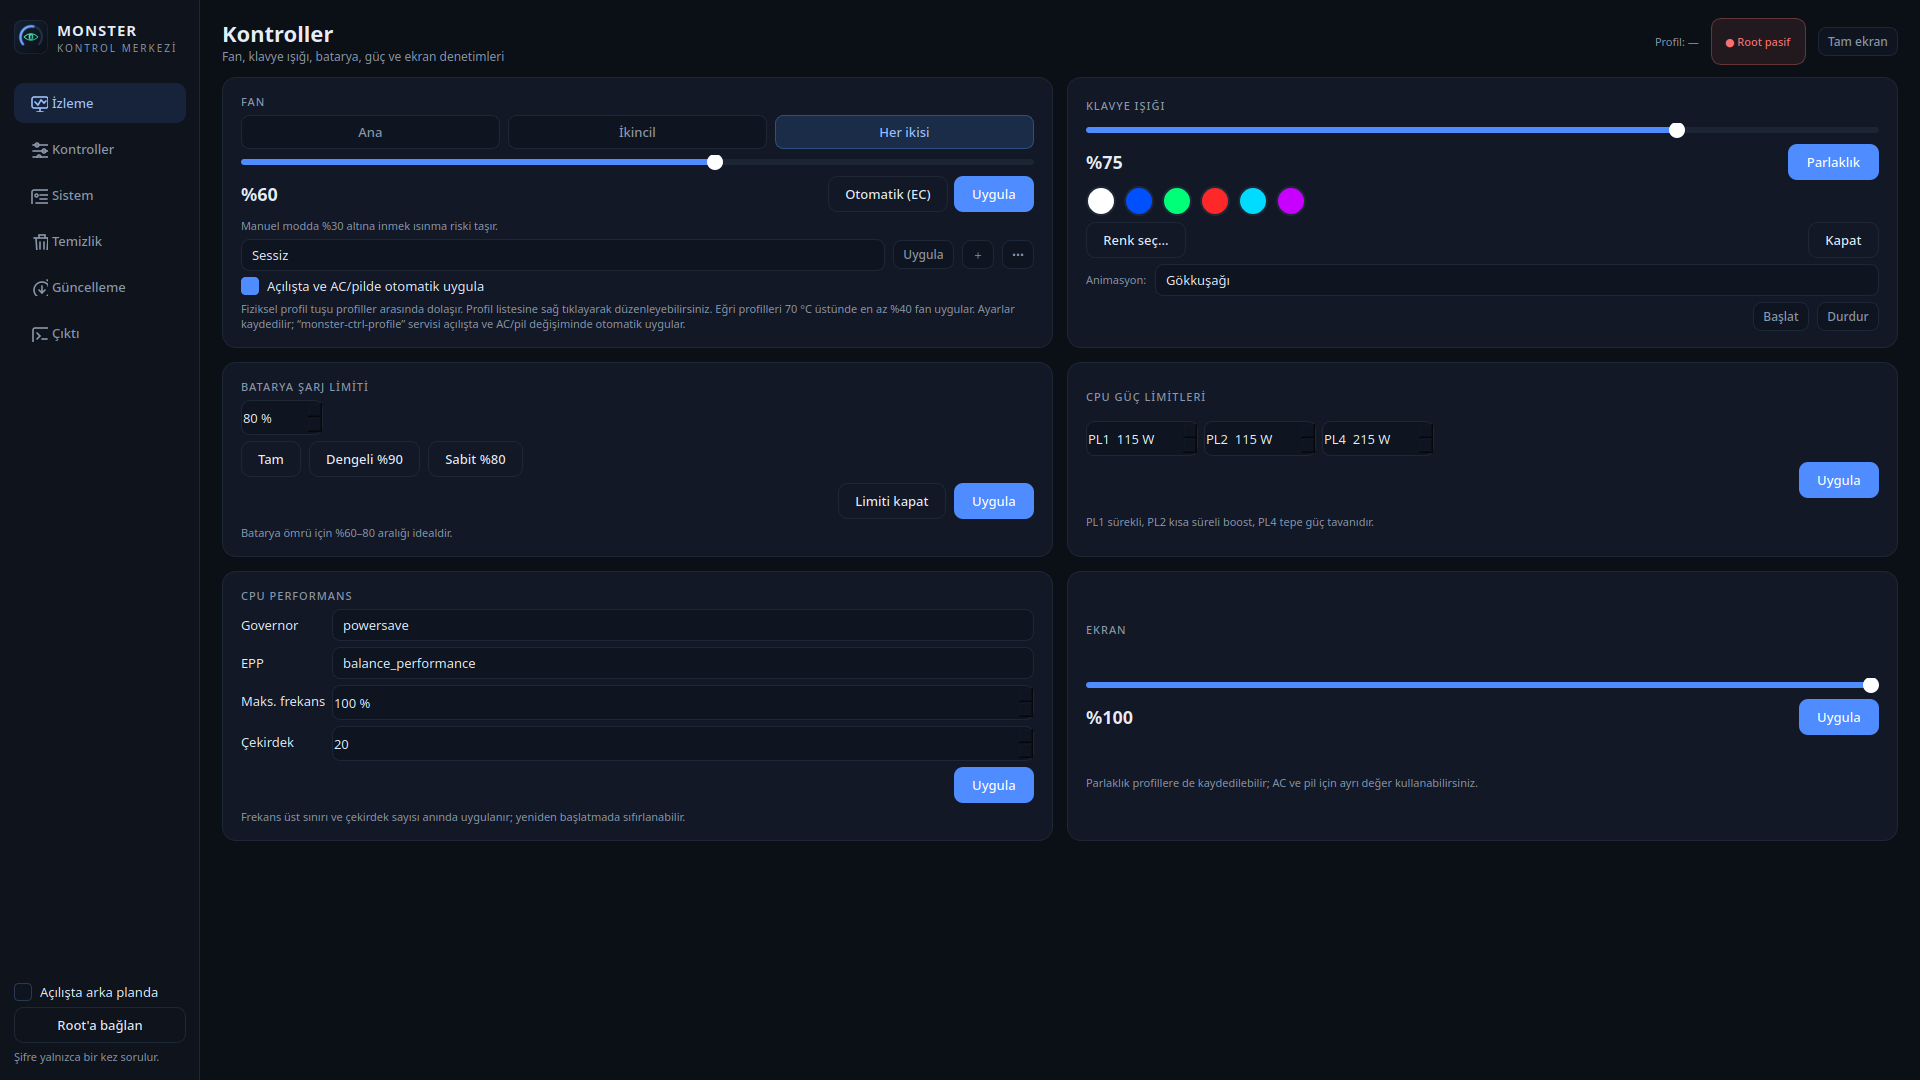
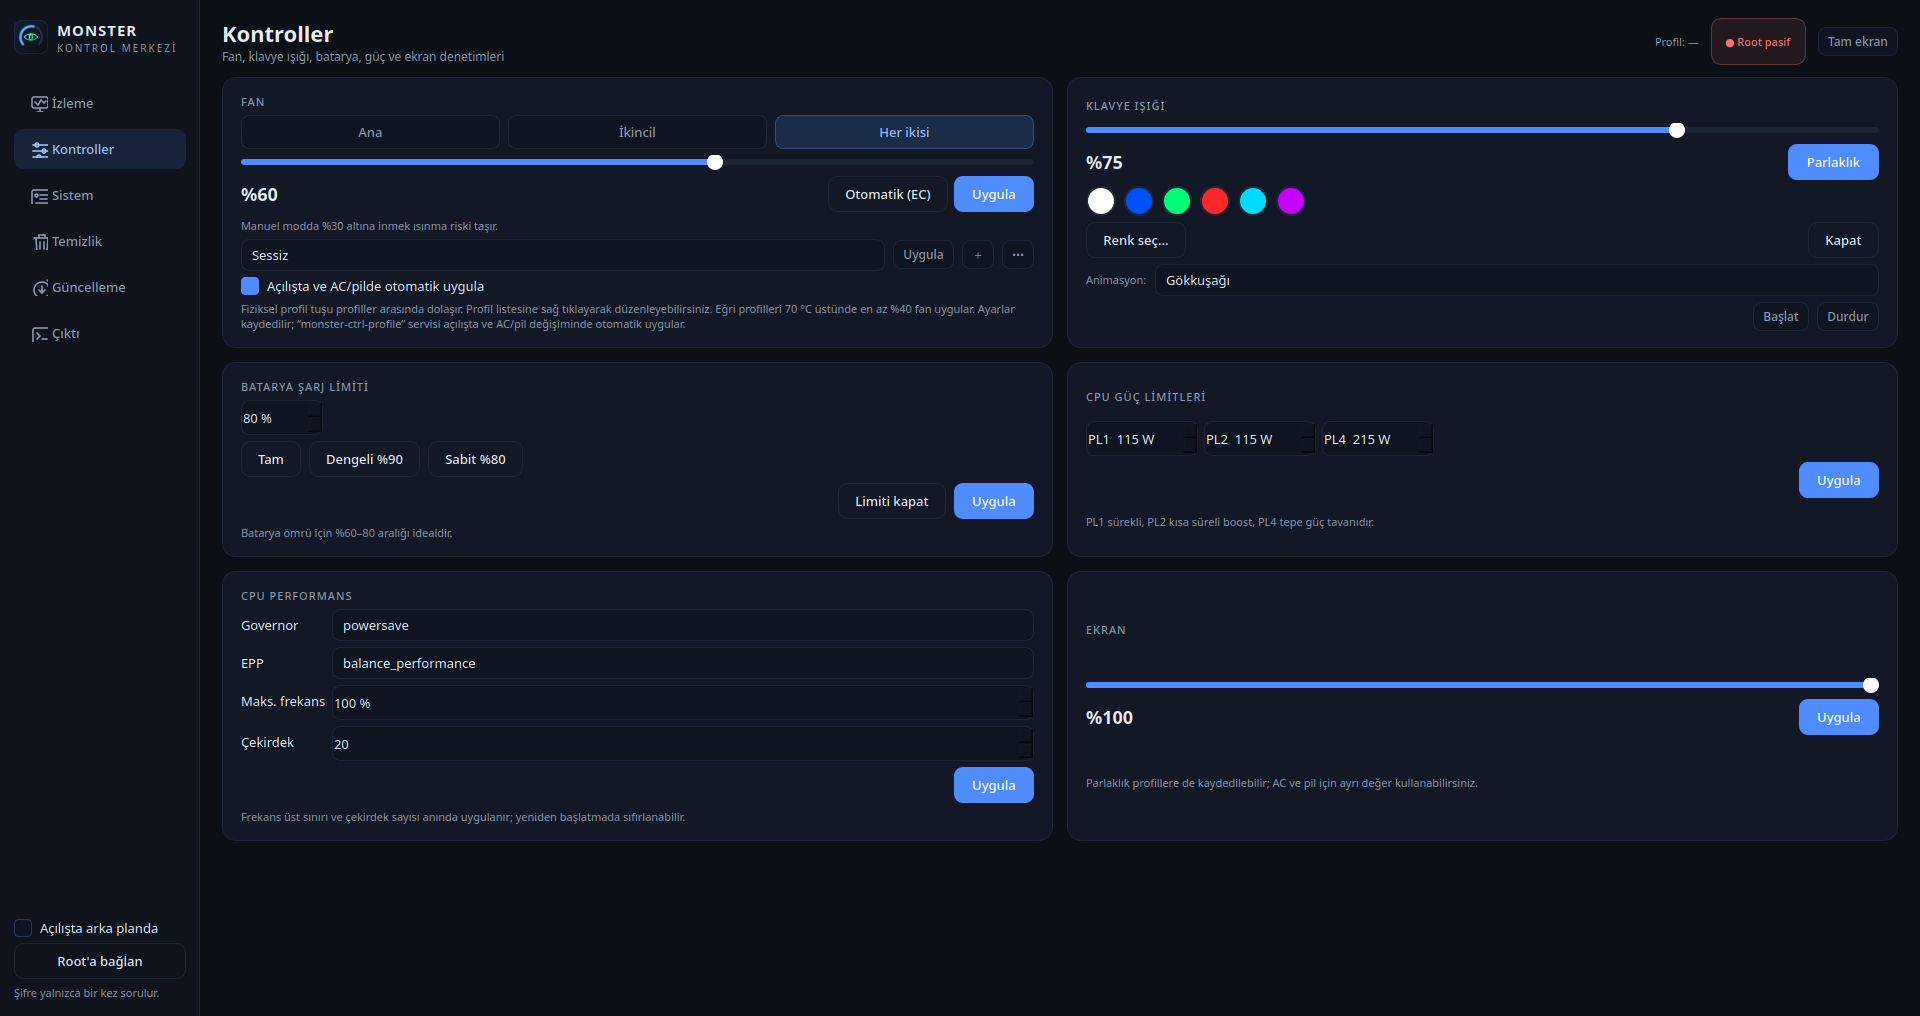
OpenMonster 1.1.1: fan modüllerini servis üzerinden yükle

diff --git a/gui/monstergui.py b/gui/monstergui.py
@@ -1,5 +1,5 @@
 #!/usr/bin/env python3
-# OpenMonster GUI v1.1.0 (PyQt6): modern koyu tema + ring gostergeli panel
+# OpenMonster GUI v1.1.1 (PyQt6): modern koyu tema + ring gostergeli panel
 # - Acilista BIR KEZ pkexec sifre penceresi; sonraki komutlar sifresiz (monsterctl helper)
 # - Root islemleri proje icindeki guncel binary ile yapilir.
 # - Sistem tepsisi: arka planda temizlik / fan / RGB hizli islemleri.
@@ -49,7 +49,7 @@ except ImportError:
 
 APP_NAME = "OpenMonster"
 APP_ID = "openmonster"
-APP_VERSION = "1.1.0"
+APP_VERSION = "1.1.1"
 GITHUB_REPO = "talhayksk/openmonster"
 RELEASES_API = f"https://api.github.com/repos/{GITHUB_REPO}/releases/latest"
 RELEASES_PAGE = f"https://github.com/{GITHUB_REPO}/releases"
@@ -2146,6 +2146,11 @@ class Main(QMainWindow):
         if idx != 2:
             self._webcam_stop_preview()
         self.stack.setCurrentIndex(idx)
+        # Programatik gezinmede de menü seçimini senkron tut.
+        if hasattr(self, "nav_group"):
+            btn = self.nav_group.button(idx)
+            if btn is not None and not btn.isChecked():
+                btn.setChecked(True)
         self.page_title.setText(
             ["Izleme", "Kontroller", "Sistem", "Temizlik", "Güncelleme",
              "Çıktı"][idx])
@@ -4289,6 +4294,8 @@ class Main(QMainWindow):
             if c is not None:
                 self._last_cpu_temp = c
                 self.g_cpu.set(c, f"{c:.0f}", temp_color(c))
+            self.g_fan1.set(0, "–", C_MUTED, "uniwill modülü yok")
+            self.g_fan2.set(0, "–", C_MUTED, "uniwill modülü yok")
             return
         t1 = rread(os.path.join(hw, "temp1_input"))
         t2 = rread(os.path.join(hw, "temp2_input"))

diff --git a/src/monsterctl.c b/src/monsterctl.c
@@ -2138,7 +2138,7 @@ static void usage(void)
 		"  sudo monsterctl autoprofile [--interval <sn>] [--check] [--once]\n"
 		"  sudo monsterctl sysconfig <base64|dosya>   (GUI tarafindan kullanilir)\n"
 		"  sudo monsterctl cleanup ram | journal [MB] | pkgcache | syscache\n",
-		"v1.1.0");
+		"v1.1.1");
 }
 
 int main(int argc, char **argv)

diff --git a/README.md b/README.md
@@ -7,7 +7,7 @@
 Fan eğrisi · klavye RGB · webcam · batarya limiti · CPU güç limitleri · GitHub güncellemeleri</p>
 
 <p align="center">
-  <img alt="sürüm" src="https://img.shields.io/badge/sürüm-1.1.0-4f8cff">
+  <img alt="sürüm" src="https://img.shields.io/badge/sürüm-1.1.1-4f8cff">
   <img alt="lisans" src="https://img.shields.io/badge/lisans-GPL--3.0--or--later-34d399">
   <img alt="platform" src="https://img.shields.io/badge/platform-Linux-4f8cff">
 </p>
@@ -38,7 +38,9 @@ yazılmış açık kaynak bir kontrol merkezidir. Gerçek donanım (EC/BIOS) üz
   güç kaynağı değiştiğinde uygun profil otomatik uygulanır. Ayrıca son yaptığınız
   fan, güç, parlaklık, CPU ve webcam ayarları kaydedilir; `monster-ctrl-profile`
   root servisi bunları **bilgisayar her açıldığında** siz değiştirene kadar
-  otomatik uygular. Bu, TCC’nin kalıcı profil davranışına karşılık gelir.
+  otomatik uygular. Servis `acpi_call` ve `uniwill-laptop` modüllerini de yükler;
+  fan RPM/görev telemetrisi paket kurulumundan sonra yeniden başlatma beklemeden
+  çalışır. Bu, TCC’nin kalıcı profil davranışına karşılık gelir.
 - **Sistem tepsisi:** Pencereyi kapatmak uygulamayı kapatmaz; arka planda
   çalışır. Tepsi menüsünden uygulamayı açmadan RAM/sistem temizleyebilir,
   klavye rengi ve animasyonu seçebilir, fan profili uygulayabilirsiniz.
@@ -84,7 +86,7 @@ systemd servisini (`monster-ctrl-profile.service`) kurar.
 ### Arch Linux / CachyOS (pacman)
 
 ```bash
-sudo pacman -U openmonster-1.1.0-1-x86_64.pkg.tar.zst
+sudo pacman -U openmonster-1.1.1-1-x86_64.pkg.tar.zst
 openmonster
 ```
 
@@ -98,21 +100,21 @@ yay -S openmonster        # veya paru -S openmonster
 ### Debian / Ubuntu (.deb)
 
 ```bash
-sudo apt install ./openmonster_1.1.0-1_amd64.deb
+sudo apt install ./openmonster_1.1.1-1_amd64.deb
 openmonster
 ```
 
 Debian 12 ve Ubuntu 24.04 üzerinde test edildi. Eski `apt` sürümlerinde:
 
 ```bash
-sudo dpkg -i openmonster_1.1.0-1_amd64.deb
+sudo dpkg -i openmonster_1.1.1-1_amd64.deb
 sudo apt -f install
 ```
 
 ### Fedora / RPM tabanlı dağıtımlar (.rpm)
 
 ```bash
-sudo dnf install ./openmonster-1.1.0-1.fc41.x86_64.rpm
+sudo dnf install ./openmonster-1.1.1-1.fc41.x86_64.rpm
 openmonster
 ```
 
@@ -122,8 +124,8 @@ genellikle RPM Fusion'dan gelir; paket bunları yalnızca önerir, zorunlu tutma
 ### Diğer dağıtımlar (portable arşiv)
 
 ```bash
-tar -xzf openmonster-1.1.0-portable-x86_64.tar.gz
-cd openmonster-1.1.0-portable
+tar -xzf openmonster-1.1.1-portable-x86_64.tar.gz
+cd openmonster-1.1.1-portable
 sudo ./install.sh
 openmonster
 ```
@@ -205,8 +207,18 @@ Servis:
 - AC/pil değişimini 2 saniyede bir izler ve uygun profili seçer.
 - Fan eğrisini 3 saniyede bir sıcaklığa göre günceller (70 °C üstünde en az %40).
 - Webcam ayarlarını açılışta yeniden uygular.
+- `acpi_call` ve `uniwill-laptop` modüllerini yükler; böylece fan RPM/görev
+  değerleri yeniden başlatma beklemeden görünür.
 - GUI’den ayar değiştiğinde dosyayı otomatik yeniden yükler; yeniden başlatma
   gerekmez.
+
+Fan RPM değerleri hâlâ `–` görünüyorsa modülleri ve servisi kontrol edin:
+
+```bash
+sudo modprobe -a acpi_call uniwill-laptop
+sudo systemctl restart monster-ctrl-profile.service
+sensors | grep -A5 uniwill
+```
 
 Eski sabit eğri servisi `monster-ctrl-fanprofile.service` alternatif olarak
 korunmuştur. Yeni servis kurulumda etkinleştirilir ve eski servis devre dışı

diff --git a/docs/PUBLISHING.md b/docs/PUBLISHING.md
@@ -40,13 +40,13 @@ cd packaging/aur
 makepkg -si          # paketi indirir, derler, kurar
 ```
 
-Paket kaynağı GitHub'daki `v1.1.0` etiketidir. Sürüm yükseltirken
+Paket kaynağı GitHub'daki `v1.1.1` etiketidir. Sürüm yükseltirken
 `packaging/aur/PKGBUILD` içindeki `pkgver`, `sha256sums` ve source URL'sini
 güncelleyin:
 
 ```bash
 curl -L -o /tmp/openmonster.tar.gz \
-  https://github.com/talhayksk/openmonster/archive/refs/tags/v1.1.0.tar.gz
+  https://github.com/talhayksk/openmonster/archive/refs/tags/v1.1.1.tar.gz
 sha256sum /tmp/openmonster.tar.gz
 makepkg --printsrcinfo > .SRCINFO
 ```
@@ -77,7 +77,7 @@ git clone ssh://aur@aur.archlinux.org/openmonster.git ~/aur-openmonster
 cd ~/aur-openmonster
 cp ~/projeler/monster-ctrl/packaging/aur/{PKGBUILD,.SRCINFO,openmonster.install} .
 git add PKGBUILD .SRCINFO openmonster.install
-git commit -m "Initial import: openmonster 1.1.0-1"
+git commit -m "Initial import: openmonster 1.1.1-1"
 git push
 ```
 
@@ -121,13 +121,13 @@ derlendiği için host'taki yeni glibc'ye bağımlı kalmaz.
 
 ```bash
 ./scripts/build-deb.sh
-# dist/openmonster_1.1.0-1_amd64.deb
+# dist/openmonster_1.1.1-1_amd64.deb
 ```
 
 Kurulum:
 
 ```bash
-sudo apt install ./openmonster_1.1.0-1_amd64.deb
+sudo apt install ./openmonster_1.1.1-1_amd64.deb
 openmonster
 ```
 
@@ -142,13 +142,13 @@ Paket, `fedora:41` konteynerinde `rpmbuild` ile derlenir.
 
 ```bash
 ./scripts/build-rpm.sh
-# dist/openmonster-1.1.0-1.fc41.x86_64.rpm
+# dist/openmonster-1.1.1-1.fc41.x86_64.rpm
 ```
 
 Kurulum:
 
 ```bash
-sudo dnf install ./openmonster-1.1.0-1.fc41.x86_64.rpm
+sudo dnf install ./openmonster-1.1.1-1.fc41.x86_64.rpm
 openmonster
 ```
 
@@ -165,14 +165,14 @@ dağıtımında çalışır. C yardımcısı statik derlenir.
 
 ```bash
 ./scripts/build-portable.sh
-# dist/openmonster-1.1.0-portable-x86_64.tar.gz
+# dist/openmonster-1.1.1-portable-x86_64.tar.gz
 ```
 
 Kurulum/kaldırma:
 
 ```bash
-tar -xzf openmonster-1.1.0-portable-x86_64.tar.gz
-cd openmonster-1.1.0-portable
+tar -xzf openmonster-1.1.1-portable-x86_64.tar.gz
+cd openmonster-1.1.1-portable
 sudo ./install.sh
 # kaldırmak için: sudo ./uninstall.sh
 ```
